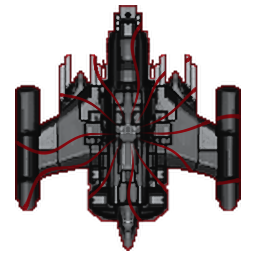
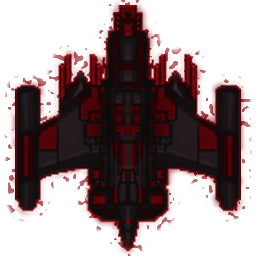
v43 art: Reaver inverted blood pattern + floating blood aura, Spartan thin gold/blue aura
Claude-Session: https://claude.ai/code/session_01N5CSf1dkfjAF1MgcPiT3C1

diff --git a/src/genpolice43.py b/src/genpolice43.py
@@ -21,6 +21,8 @@ DGREEN = np.array([40, 120, 58.0])
 LGOLD = np.array([255, 228, 150.0])
 AURA = np.array([110, 170, 255.0])
 VIOLET = np.array([70, 30, 110.0])
+BLUEF = np.array([110, 170, 255.0])
+GOLDF = np.array([255, 200, 95.0])
 MGREEN = np.array([64, 90, 48.0])
 
 
@@ -72,28 +74,17 @@ def accent(fac, orig, pol, name):
         k = g.smooth(sat, 0.35, 0.55) * gold * inside
         out = mix(out, GOLD, k * 0.95, 0.45 + 0.75 * (L / 255.0))
     elif fac == 'reaver':
-        ys, xs = np.nonzero(a > 32)
-        cy, cx = ys.mean(), xs.mean()
-        Y, X = np.mgrid[0:h, 0:w].astype(float)
-        dy, dx = Y - cy, X - cx
-        rr = np.hypot(dx, dy)
-        R = np.percentile(rr[a > 32], 99)
-        th = np.arctan2(dy, dx)
-        rng = np.random.RandomState(zlib.crc32(name.encode()) & 0xffff)
-        n = 12
-        v = np.zeros_like(rr)
-        for i in range(n):
-            t0 = (i + rng.uniform(-0.3, 0.3)) * 2 * np.pi / n
-            wob = 0.10 * np.sin(rr / R * rng.uniform(5, 9) + rng.uniform(0, 6.3))
-            d = np.angle(np.exp(1j * (th - t0 - wob)))
-            arc = np.abs(d) * np.maximum(rr, 1)                       # distance from the vein centre line, px
-            wid = (4.0 + 9.0 * (rr / R)) * S                          # veins widen as they flow outwards
-            v = np.maximum(v, g.smooth(-arc, -wid, -wid * 0.35))
-        v *= g.smooth(rr / R, 0.06, 0.30)                             # start at the core
-        rim = band(m, 10 * S)
-        drip = band(m, 26 * S) * np.clip(v * 3, 0, 1)                 # veins pool into the edge
-        k = np.clip(np.maximum(v, np.maximum(rim * 0.95, drip)), 0, 1) * inside
-        out = mix(out, BLOOD, k, 0.55 + 0.7 * (L / 255.0))
+        # owner 03:49: inverted pattern: the original red paint -> dark spots, everything else -> dark blood; blood rim
+        r, gg, b = orig[..., 0], orig[..., 1], orig[..., 2]
+        mx = orig[..., :3].max(-1); mn = orig[..., :3].min(-1)
+        sat = (mx - mn) / np.maximum(mx, 1)
+        red = g.smooth(sat, 0.18, 0.32) * g.smooth(r / np.maximum(np.maximum(gg, b), 1), 1.15, 1.35)
+        t = np.clip(L / 255.0, 0, 1)
+        blood = BLOOD[None, None, :] * (0.12 + 1.35 * t ** 1.2)[..., None]
+        dark = np.array([34, 26, 28.0])[None, None, :] * (0.35 + 1.4 * t)[..., None]
+        out = blood * (1 - red[..., None]) + dark * red[..., None]
+        rim = band(m, 10 * S) * inside
+        out = mix(out, BLOOD * 1.15, rim * 0.9, 0.6 + 0.6 * t)
     elif fac == 'kretari':
         o = orig[..., :3]
         mx = o.max(-1, keepdims=True)
@@ -124,15 +115,35 @@ def accent(fac, orig, pol, name):
         k = band(m, 7 * S) * inside
         out = mix(out, LGOLD, k * 0.65, 0.85 + 0.15 * (L / 255.0))
     res = np.concatenate([np.clip(out, 0, 255), a[..., None]], -1)
-    if fac in ('helion', 'warden'):
-        # soft halo outside the hull: helion a faint gold outline glow, warden a blue aura
-        rad, col, op = (8 * S, LGOLD, 0.45) if fac == 'helion' else (22 * S, AURA, 0.60)
-        hal = np.asarray(m.filter(ImageFilter.MaxFilter(2 * int(max(1, rad * 0.4)) + 1)).filter(ImageFilter.GaussianBlur(rad)), float) / 255.0
-        ha = np.clip(hal * op * 255, 0, 255)
-        ha = np.minimum(ha, 255)
+    if fac in ('helion', 'warden', 'reaver', 'spartan') and not name.endswith('wreck'):
+        Y, X = np.mgrid[0:h, 0:w].astype(float)
+        rng = np.random.RandomState(zlib.crc32(('aura' + name).encode()) & 0xffff)
+        def noise(cx, cy, blur):
+            n = Image.fromarray((rng.rand(cy, cx) * 255).astype(np.uint8), 'L').resize((w, h), Image.BICUBIC)
+            return np.asarray(n.filter(ImageFilter.GaussianBlur(blur)), float) / 255.0
+        def ring(rad):
+            return np.asarray(m.filter(ImageFilter.MaxFilter(2 * int(max(1, rad * 0.4)) + 1))
+                              .filter(ImageFilter.GaussianBlur(rad)), float) / 255.0
+        if fac == 'helion':        # faint gold outline glow
+            ha = ring(8 * S) * 0.45; col = np.broadcast_to(LGOLD, (h, w, 3))
+        elif fac == 'warden':      # soft blue aura
+            ha = ring(22 * S) * 0.60; col = np.broadcast_to(AURA, (h, w, 3))
+        elif fac == 'reaver':      # owner 03:49: blood floating around the ship: blotchy halo + loose droplets
+            near = ring(10 * S); far = ring(24 * S)
+            blot = g.smooth(noise(22, 22, max(h, w) / 22 * 0.3), 0.45, 0.62)
+            drops = g.smooth(noise(70, 70, max(h, w) / 70 * 0.25), 0.70, 0.75) * g.smooth(far, 0.04, 0.2)
+            ha = np.clip(near * (0.18 + 0.42 * blot) + drops * 0.6, 0, 1)
+            col = np.broadcast_to(BLOOD * 0.95, (h, w, 3))
+        else:                      # owner 03:49: thin gold/blue aura like the phoenix flame, less visible
+            near = ring(5 * S); far = ring(13 * S)
+            flick = 0.45 + 0.55 * noise(40, 10, max(h, w) / 40 * 0.3)          # streaks stretched along the hull
+            ha = np.clip(far * 0.40 * flick + near * 0.12, 0, 1)
+            tb = np.clip((near - 0.15) / 0.6, 0, 1)[..., None]                  # blue at the hull, gold outside
+            col = BLUEF[None, None, :] * tb + GOLDF[None, None, :] * (1 - tb)
+        ha = np.clip(ha * 255, 0, 255)
         fa = a / 255.0
         A = a + ha * (1 - fa)                                         # hull over halo
-        C = (res[..., :3] * fa[..., None] + col[None, None, :] * (ha * (1 - fa))[..., None] / 255.0 * 1.0) \
+        C = (res[..., :3] * fa[..., None] + col * (ha * (1 - fa))[..., None] / 255.0) \
             / np.maximum(A[..., None] / 255.0, 1e-6)
         res = np.concatenate([np.clip(C, 0, 255), np.clip(A, 0, 255)[..., None]], -1)
     return res
@@ -173,7 +184,7 @@ def one(art, src, dst, fac):
             if wi is not None:
                 o = np.asarray(wi.convert('RGBA')).astype(float)
                 p = np.asarray(g.hull(wi, council)).astype(float)
-                r = accent(fac if fac not in ('helion', 'warden') else 'none', o, p, src + sf)
+                r = accent(fac if fac not in ('helion', 'warden', 'spartan') else 'none', o, p, src + sf + 'wreck')
                 g.save(Image.fromarray(np.round(r).astype(np.uint8), 'RGBA'), art, 'pol_wreck_cap_' + k + sf)
                 done.append('pol_wreck_cap_' + k + sf)
     return done
